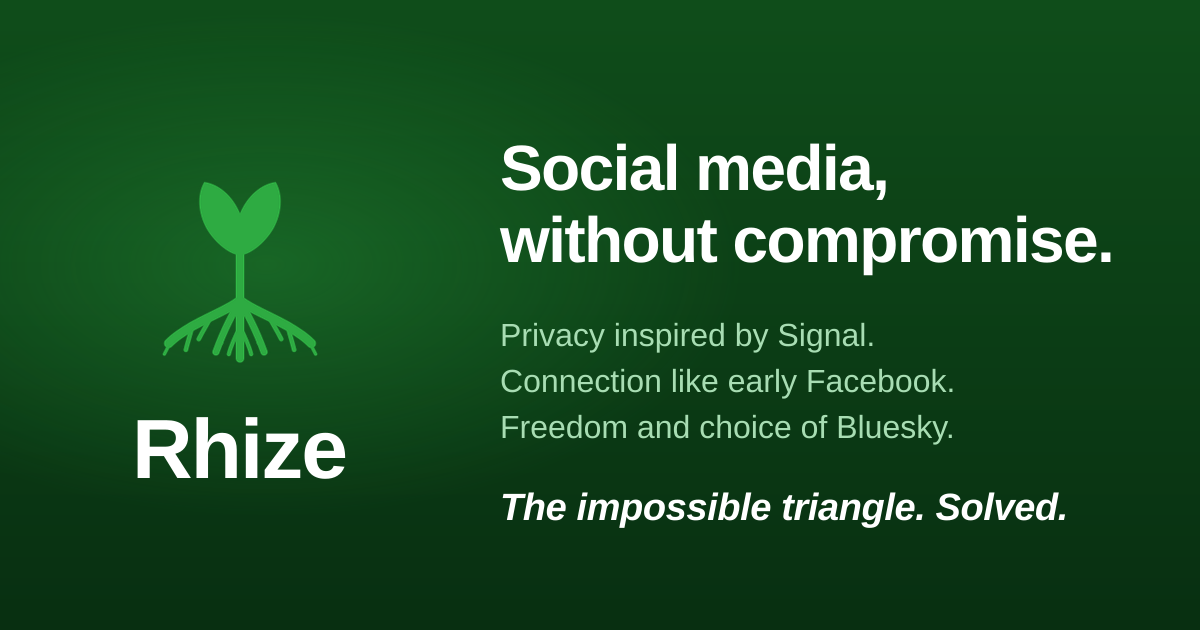
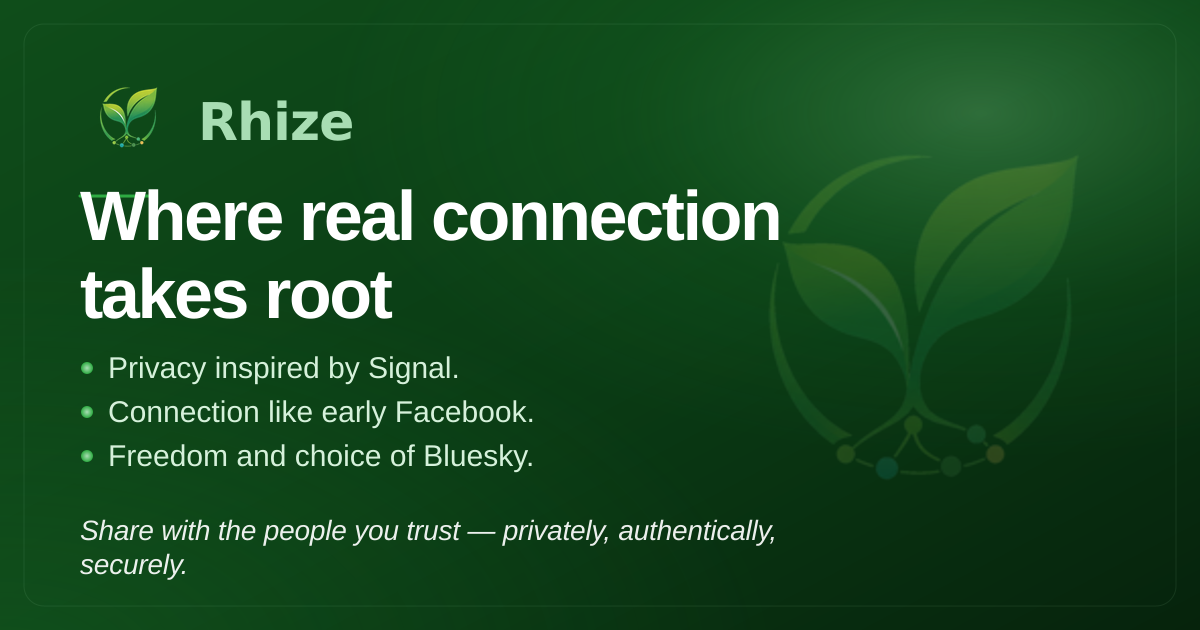
Refresh OG image and share metadata to match new hero
Rebuild the Open Graph image (English and Spanish) around the current
homepage hero copy — heading, the three Signal/Facebook/Bluesky pillars,
and the new tagline — and use the updated rhize-mark logo. Refines the
color scheme with a layered forest gradient, dual radial glows, gradient
pillar bullets, and a faded brand-mark accent on the right.

Also updates the share "subject" metadata (og:title, og:description,
twitter:* tags, page <title>, meta description) and the per-page meta in
the EN/ES home content so the snippet shown beneath the OG image stays
consistent with the hero and with the image itself.

https://claude.ai/code/session_0182q9KfuMP4bvCByqzPXbAq

diff --git a/src/content/pages/index.en.ts b/src/content/pages/index.en.ts
@@ -1,7 +1,8 @@
 export default {
   meta: {
-    title: 'Rhize',
-    description: 'Rhize - Privacy. Connection. Freedom.',
+    title: 'Rhize — Where real connection takes root',
+    description:
+      'Privacy inspired by Signal. Connection like early Facebook. Freedom and choice of Bluesky. Share with the people you trust — privately, authentically, securely.',
   },
   hero: {
     heading: 'Where real connection takes root',

diff --git a/src/content/pages/index.es.ts b/src/content/pages/index.es.ts
@@ -1,7 +1,8 @@
 export default {
   meta: {
-    title: 'Rhize',
-    description: 'Rhize - Privacidad. Conexión. Libertad.',
+    title: 'Rhize — Donde la conexión real echa raíces',
+    description:
+      'Privacidad inspirada en Signal. Conexión como en los primeros días de Facebook. Libertad y elección de Bluesky. Comparte con las personas en las que confías — de forma privada, auténtica y segura.',
   },
   hero: {
     heading: 'Donde la conexión real echa raíces',